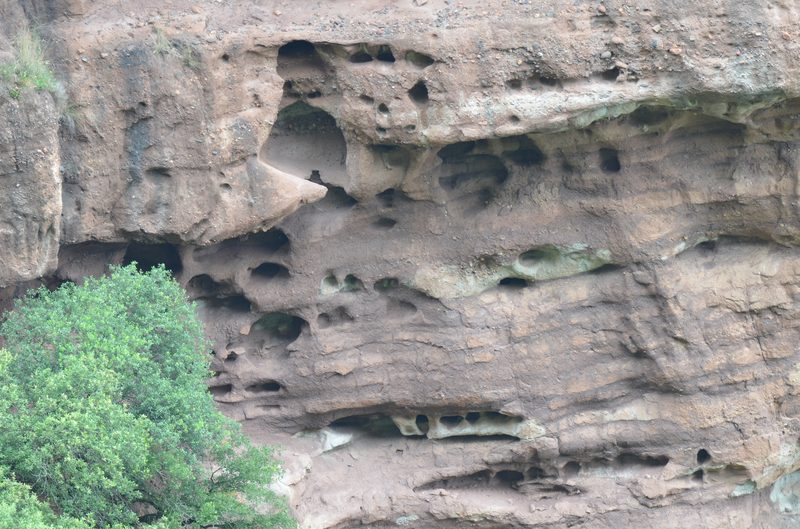
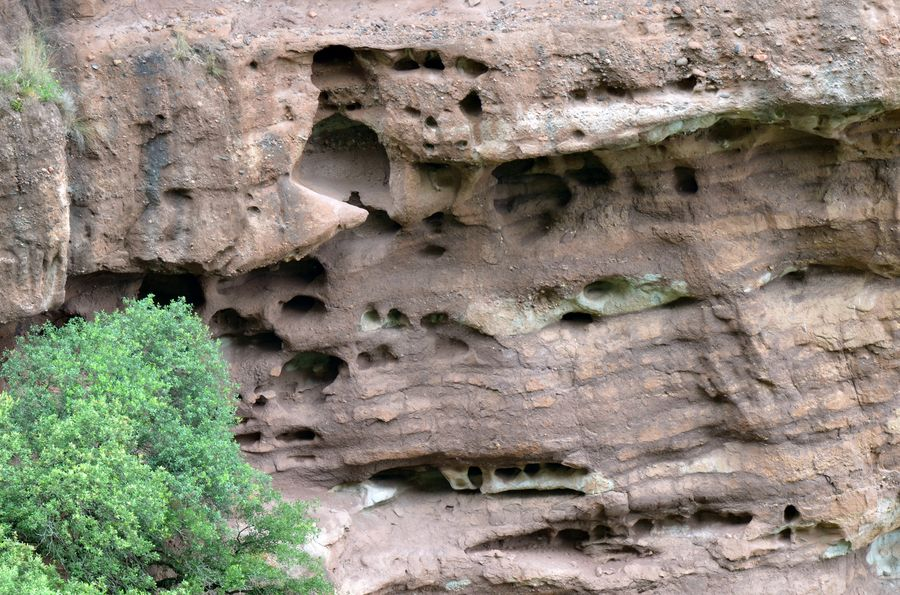
Afegeix fotos i figures de geologia i geobotànica a les parades P4, P5 i P6, i el camí de pujada P4–P5.
Inclou les capçaleres noves, les miniatures ampliables dels materials del camí i una graella de figures als modals.

diff --git a/src/content.config.ts b/src/content.config.ts
@@ -11,6 +11,7 @@ const modalContentSchema = (image: (path: string) => z.ZodType) =>
         publicSrc: z.string(),
         alt: z.string(),
         caption: z.string().optional(),
+        compact: z.boolean().optional(),
         tipus: z.enum(["animacio", "video"]).default("animacio"),
       })
       .optional(),
@@ -61,6 +62,8 @@ const modalContentSchema = (image: (path: string) => z.ZodType) =>
           mediaCaption: z.string().optional(),
           /** Títol de figura sobre un grup `mediaItems` (peu de figura a `mediaCaption`) */
           mediaTitle: z.string().optional(),
+          /** graella de miniatures ampliables; per defecte, una sota l'altra */
+          mediaLayout: z.enum(["stack", "grid"]).optional(),
           /** Índex del paràgraf (0-based) després del qual inserir `media` */
           mediaAfterParagraph: z.number().int().nonnegative().optional(),
           /** Índex de la subsecció (0-based) després de la qual inserir `mediaItems` */
@@ -394,6 +397,7 @@ const parades = defineCollection({
                 modalLabel: z.string().optional(),
                 resum: z.string().optional(),
                 intro: z.string().optional(),
+                introMedia: modalContentSchema(image).shape.introMedia,
                 sections: modalContentSchema(image).shape.sections,
               }),
             )

diff --git a/src/data/sau-tavertet-parades.ts b/src/data/sau-tavertet-parades.ts
@@ -38,12 +38,14 @@ export const SAU_TAVERTET_PARADES: SauTavertetParada[] = [
     num: 4,
     slug: "I1-P4",
     label: "Dipòsits de vessant (Quaternari)",
+    preview: "/images/parades/I1-P4-hover.jpg",
     svgIds: ["I1-P4", "P4", "Parada4"],
   },
   {
     num: 5,
     slug: "I1-P5",
     label: "Gresos i conglomerats vermells, Formació Vilanova de Sau",
+    preview: "/images/parades/I1-P5-hover.jpg",
     svgIds: ["I1-P5", "P5", "Parada5"],
   },
   {

diff --git a/src/content/parades/I1-P5.md b/src/content/parades/I1-P5.md
@@ -3,6 +3,11 @@ title: "P5. Gresos i conglomerats vermells, Formació Vilanova de Sau"
 itinerari: "sau-tavertet"
 ordre: 5
 coordenades: "451630,8 E / 4648435,6 N (ETRS89 UTM 31N)"
+media:
+  tipus: foto
+  foto:
+    url: "/src/images/parades/I1-P5/01-P5-inici.jpg"
+    alt: "Aflorament de gresos i conglomerats vermells de la Formació Vilanova de Sau, amb bosc i relleu al fons — Parada 5"
 geologia:
   resum: "Materials continentals dipositats en un sistema de ventalls al·luvials, abans de l'entrada progressiva del mar eocè."
   parts:
@@ -12,11 +17,24 @@ geologia:
         La parada se situa a la Formació Vilanova de Sau, una unitat sedimentària continental formada durant l'Eocè. Hi predominen els gresos i els conglomerats vermells, amb intercalacions de lutites. Aquesta combinació de materials mostra que el sediment es va acumular en un medi amb una energia variable.
 
         Els gresos estan formats per grans de sorra compactats i cimentats. Els conglomerats contenen graves i còdols que van ser transportats per corrents d'aigua amb capacitat per mobilitzar materials més grossos. Les lutites, en canvi, corresponen a períodes de menor energia, quan s'acumulaven fangs i partícules fines.
-
-        Respecte de la Formació Mediona, observada a la parada 3, aquí augmenta la proporció de gresos i conglomerats. Aquest canvi indica una major influència dels processos de transport fluvial i al·luvial, o bé una sedimentació en sectors més propers als relleus que aportaven els materials.
-
-        La Formació Vilanova de Sau s'interpreta com el registre de sectors mitjans a distals d'un sistema de ventalls al·luvials. Els sediments procedien de relleus situats al marge de la conca i eren redistribuïts per canals temporals, riuades i episodis d'escorrentia.
+      introMedia:
+        title: "Figura 1. Gresos i conglomerats vermells de la Formació Vilanova de Sau: matriu sorrenca rogenca amb còdols de composició i mida diverses, transportats per corrents d'energia variable."
+        publicSrc: "/images/parades/I1-P5/geologia/P5-geo-fig1-gresos-conglomerats.jpg"
+        alt: "Gresos i conglomerats vermells amb còdols dispersos a la parada 5"
+        caption: "Fotografia: elaboració pròpia, parada 5."
+        compact: true
       sections:
+        - title: ""
+          paragraphs:
+            - "Respecte de la Formació Mediona, observada a la parada 3, aquí augmenta la proporció de gresos i conglomerats. Aquest canvi indica una major influència dels processos de transport fluvial i al·luvial, o bé una sedimentació en sectors més propers als relleus que aportaven els materials."
+            - "La Formació Vilanova de Sau s'interpreta com el registre de sectors mitjans a distals d'un sistema de ventalls al·luvials. Els sediments procedien de relleus situats al marge de la conca i eren redistribuïts per canals temporals, riuades i episodis d'escorrentia."
+          mediaAfterParagraph: 1
+          media:
+            title: "Figura 2. Aflorament de gresos i conglomerats vermells de la Formació Vilanova de Sau: superfície d'estratificació amb textura grollera, típica de sediments redistribuïts en ventalls al·luvials."
+            publicSrc: "/images/parades/I1-P5/geologia/P5-geo-fig2-ventall-alluvial.jpg"
+            alt: "Aflorament inclinat de gresos i conglomerats vermells de la parada 5, amb vegetació a la coronació"
+            caption: "Fotografia: elaboració pròpia, parada 5."
+            compact: true
         - title: "Per observar al camp"
           paragraphs:
             - "• Capes de gres vermell o rogenc."
@@ -31,10 +49,26 @@ geologia:
           paragraphs:
             - "El color vermellós és una característica molt visible de la Formació Vilanova de Sau. S'explica principalment per la presència d'òxids de ferro que tenyeixen els grans minerals i el ciment de les roques."
             - "Aquesta coloració és habitual en sediments dipositats o modificats en condicions oxidants, pròpies d'ambients continentals amb disponibilitat d'oxigen. Per tant, és un indicador útil d'un paisatge terrestre, tot i que el color per si sol sempre s'ha d'interpretar conjuntament amb la textura i l'estructura de la roca."
+          mediaAfterParagraph: 1
+          media:
+            title: "Figura 3. Coloració vermellosa dels gresos i conglomerats de la Formació Vilanova de Sau: els òxids de ferro tenyeixen la matriu i el ciment en condicions oxidants d'un ambient continental."
+            publicSrc: "/images/parades/I1-P5/geologia/P5-geo-fig3-color-vermell.jpg"
+            alt: "Superfície de gresos i conglomerats vermells de la parada 5, amb còdols i vegetació al voltant"
+            caption: "Fotografia: elaboració pròpia, parada 5."
+            compact: true
+        - title: ""
+          paragraphs:
             - "Dins la successió geològica local, la Formació Vilanova de Sau se situa per sobre de la Formació Mediona —i, localment, de la Formació Orpí— i per sota de la Formació Romagats, també formada per materials detrítics vermells."
             - "La seqüència mostra una evolució dins d'un mateix domini continental: des de lutites i argiles més fines a la Formació Mediona fins a materials més sorrencs i conglomeràtics a la Formació Vilanova de Sau i, posteriorment, a conglomerats més gruixuts de la Formació Romagats."
             - "Per damunt d'aquest conjunt continental apareixen les roques marines de la Formació Tavertet. El contrast entre els sediments vermells de P5 i les roques més clares que formen els cingles ajuda a reconèixer un canvi ambiental de gran escala: dels sistemes continentals de ventalls al·luvials a la progressiva entrada del mar eocè."
             - "Connexió amb la parada següent: la parada 6 mostra la Formació Romagats, on els conglomerats són més abundants. Això indica una sedimentació continental més proximal, associada a ventalls al·luvials propers a les àrees d'origen dels sediments."
+          mediaAfterParagraph: 2
+          media:
+            title: "Figura 4. Contrast entre els sediments vermells continentals (Formació Vilanova de Sau) i les roques clares dels cingles marins de la Formació Tavertet: un canvi d'ambient de gran escala."
+            publicSrc: "/images/parades/I1-P5/geologia/P5-geo-fig4-cingles-tavertet.jpg"
+            alt: "Cinglera amb materials vermells a la base i calcàries clares de la Formació Tavertet al capdamunt"
+            caption: "Fotografia: elaboració pròpia, parada 5."
+            compact: true
 mapaUrl: "/images/parades/I1-P5/mapa-parada-p5.png"
 mapaLabel: "Mapa"
 mapaDescripcio: "Mapa geològic de la parada 5 (P5–P6–P9–P10)"
@@ -44,10 +78,6 @@ analisiFlora:
   resum: "El relleu dels cingles i els gresos de Vilanova de Sau generen un mosaic de microhàbitats, de vegetació rupícola a boscos de muntanya mitjana."
   paragraphs:
     - "La vegetació observada en aquesta parada està fortament condicionada pel relleu dels cingles, la naturalesa del substrat geològic i les diferències locals d'humitat i insolació. La combinació de parets rocoses, replans estructurals, peus de cingle i vessants forestats origina un mosaic de microhàbitats que afavoreix la coexistència de comunitats vegetals molt diverses."
-    - "Els materials detrítics de la Formació Vilanova de Sau, constituïts principalment per gresos i conglomerats continentals, són relativament erosionables i permeten localment l'acumulació de sòl. En aquests sectors es desenvolupa una cobertura vegetal més contínua que sobre els afloraments rocosos resistents que formen el front del cingle. En canvi, als replans i escarpes rocoses la disponibilitat de sòl és molt limitada i la vegetació queda restringida a fissures, petites depressions i superfícies on s'acumulen sediments fins."
-    - "L'orientació i la geometria de la cinglera generen contrastos ambientals marcats. Els sectors exposats directament al sol presenten temperatures més elevades i una disponibilitat hídrica més reduïda, mentre que els espais ombrívols, els fondals i les concavitats conserven la humitat durant més temps. Aquesta variabilitat explica la presència simultània de comunitats mediterrànies i de muntanya mitjana dins d'un espai relativament reduït."
-    - "Als sectors més secs poden aparèixer joncedes, prats secs, boixedes amb savina i vegetació rupícola adaptada a la manca de sòl. En canvi, a les zones més protegides i amb una major acumulació edàfica es desenvolupen rouredes de roure martinenc, avellanoses i, als sectors més humits del Collsacabra, fagedes. Aquesta distribució posa de manifest la relació directa entre geologia, relleu, disponibilitat de sòl i estructura de la vegetació."
-    - "Les comunitats vegetals presents als cingles constitueixen un bon exemple d'adaptació als ambients rocosos. Les espècies que hi viuen han de tolerar sòls molt prims, una marcada variabilitat hídrica i una elevada exposició al vent. El boix (Buxus sempervirens) i la savina (Juniperus phoenicea) són alguns dels elements arbustius característics dels replans calcaris i de les franges de transició entre la roca nua i les àrees forestals."
   contextGeologic: "Gresos i conglomerats vermells de la Formació Vilanova de Sau (Eocè), amb contrast entre materials detrítics erosionables i nivells rocosos més resistents de la cinglera."
   posicioRelleu: "Front de cinglera obert cap a la vall de Sau: parets verticals, replans, peus de cingle i vessants forestats."
   orientacioMicroclima: "Insolació molt contrastada: sectors assolellats més càlids i secs; fondals, concavitats i peus de paret amb més ombra i humitat."
@@ -64,8 +94,27 @@ analisiFlora:
   relacioFloraRelleu: "El pendent, l'exposició i la geometria del cingle determinen el mosaic entre comunitats mediterrànies i de muntanya mitjana."
   observacionsEcologiques: "Els usos tradicionals (conreu i pastura) i el mapa d'usos del sòl mostren un entorn predominantment forestal; les comunitats rupícoles ocupen franges estretes difícils de cartografiar."
   images:
+    - url: "/src/images/parades/I1-P5/geobotanica/P5-4-bot.jpg"
+      compact: true
+      alt: "Planta arbustiva arrelada en una fissura dels gresos vermells, parada 5"
+      title: "Figura G1. Vegetació discontínua sobre gresos vermells: una planta arrelada en una fissura on s'acumula sòl fi i fullaraca."
+      caption: "Fotografia: elaboració pròpia, parada 5."
+    - textBefore: "Els materials detrítics de la Formació Vilanova de Sau, constituïts principalment per gresos i conglomerats continentals, són relativament erosionables i permeten localment l'acumulació de sòl. En aquests sectors es desenvolupa una cobertura vegetal més contínua que sobre els afloraments rocosos resistents que formen el front del cingle. En canvi, als replans i escarpes rocoses la disponibilitat de sòl és molt limitada i la vegetació queda restringida a fissures, petites depressions i superfícies on s'acumulen sediments fins."
+    - textBefore: "L'orientació i la geometria de la cinglera generen contrastos ambientals marcats. Els sectors exposats directament al sol presenten temperatures més elevades i una disponibilitat hídrica més reduïda, mentre que els espais ombrívols, els fondals i les concavitats conserven la humitat durant més temps. Aquesta variabilitat explica la presència simultània de comunitats mediterrànies i de muntanya mitjana dins d'un espai relativament reduït."
+      url: "/src/images/parades/I1-P5/geobotanica/P5-bota-g2-exposicio.jpg"
+      compact: true
+      alt: "Cinglera amb gresos vermells i calcàries clares, bosc al peu i contrast d'ombra i insolació a la parada 5"
+      title: "Figura G2. Geometria de la cinglera i contrastos d'exposició: vessant forestal ombrívol al peu i parets rocoses més assolellades, amb comunitats diferents en pocs metres."
+      caption: "Fotografia: elaboració pròpia, parada 5."
+    - textBefore: "Als sectors més secs poden aparèixer joncedes, prats secs, boixedes amb savina i vegetació rupícola adaptada a la manca de sòl. En canvi, a les zones més protegides i amb una major acumulació edàfica es desenvolupen rouredes de roure martinenc, avellanoses i, als sectors més humits del Collsacabra, fagedes. Aquesta distribució posa de manifest la relació directa entre geologia, relleu, disponibilitat de sòl i estructura de la vegetació."
+      url: "/src/images/parades/I1-P5/geobotanica/P5-bota2.jpg"
+      compact: true
+      alt: "Aflorament de gresos vermells amb vegetació discontínua i bosc dens al marge, parada 5"
+      title: "Figura G3. Contrast entre l'aflorament de gresos vermells —sòl molt prim i vegetació herbàcia i arbustiva discontínua— i el bosc dens on el relleu i l'acumulació edàfica permeten una coberta arbòria contínua."
+      caption: "Fotografia: elaboració pròpia, parada 5."
+    - textBefore: "Les comunitats vegetals presents als cingles constitueixen un bon exemple d'adaptació als ambients rocosos. Les espècies que hi viuen han de tolerar sòls molt prims, una marcada variabilitat hídrica i una elevada exposició al vent. El boix (Buxus sempervirens) i la savina (Juniperus phoenicea) són alguns dels elements arbustius característics dels replans calcaris i de les franges de transició entre la roca nua i les àrees forestals."
     - url: "/src/images/parades/I1-P5/geobotanica/P5-bota-g3-usos-sol.jpg"
       alt: "Mapa d'usos del sòl i cobertes vegetals a l'entorn de la parada 5"
-      title: "Figura G3. Usos del sòl i cobertes vegetals a l'entorn de la parada 5, Formació Vilanova de Sau. El cercle vermell delimita aproximadament l'àmbit de l'aflorament. Predominen les cobertes forestals, amb presència de boscos caducifolis i esclerofil·les; els prats, matollars i conreus ocupen sectors puntuals més accessibles o amb menor pendent."
+      title: "Figura G4. Usos del sòl i cobertes vegetals a l'entorn de la parada 5, Formació Vilanova de Sau. El cercle vermell delimita aproximadament l'àmbit de l'aflorament. Predominen les cobertes forestals, amb presència de boscos caducifolis i esclerofil·les; els prats, matollars i conreus ocupen sectors puntuals més accessibles o amb menor pendent."
       caption: "Elaboració pròpia a partir de la cartografia d'usos del sòl."
 ---

diff --git a/src/content/parades/I1-P4.md b/src/content/parades/I1-P4.md
@@ -3,6 +3,11 @@ title: "P4. Dipòsits de vessant (Quaternari)"
 itinerari: "sau-tavertet"
 ordre: 4
 coordenades: "451127,3 E / 4647526,8 N (ETRS89 UTM 31N)"
+media:
+  tipus: foto
+  foto:
+    url: "/src/images/parades/I1-P4/01-P4-inici.jpg"
+    alt: "Cinglera amb materials vermells i capçalera clara sobre bosc dens — Parada 4"
 geologia:
   resum: "Materials recents acumulats al peu dels vessants, que mostren que el relleu de Sau–Tavertet continua evolucionant."
 
@@ -24,6 +29,13 @@ geologia:
             - "• Clasts sovint angulosos o poc arrodonits, indicadors d'un transport relativament curt."
             - "• Blocs de mida mètrica acumulats al peu dels cingles."
             - "A diferència de moltes roques sedimentàries paleògenes de l'itinerari, aquests dipòsits no solen formar capes contínues i regulars. Són acumulacions heterogènies, produïdes per processos de vessant i modificades localment per l'aigua."
+          mediaAfterParagraph: 5
+          media:
+            title: "Figura 1. Acumulació heterogènia de dipòsit de vessant: fragments de mida, forma i composició diverses en una matriu sorrenca, sense capes contínues."
+            publicSrc: "/images/parades/I1-P4/geologia/P4-geo-fig1-diposit-heterogeni.jpg"
+            alt: "Detall d'un dipòsit de vessant amb clasts de mides i colors diversos en matriu vermellosa, parada 4"
+            caption: "Fotografia: elaboració pròpia, parada 4."
+            compact: true
         - title: "Per observar al camp"
           paragraphs:
             - "• La gran variabilitat de mida entre blocs, graves, sorres i materials fins."
@@ -39,6 +51,44 @@ geologia:
             - "Els cingles actuals són el resultat de milions d'anys de meteorització, erosió i despreniments. Aquests processos, però, no formen part només del passat: continuen actuant avui, normalment de manera lenta i poc visible. Els dipòsits de vessant en són una evidència directa."
             - "Petits despreniments, moviments superficials de terra i l'erosió causada per l'aigua transfereixen materials des de les parts altes fins a la base dels vessants. Els dipòsits poden quedar parcialment recoberts per vegetació, de manera que no sempre són evidents a primera vista."
             - "Des del punt de vista ecològic, aquests materials poden donar lloc a sòls més profunds que els que es formen sobre roca nua. La presència de fraccions fines, matèria orgànica i aigua retinguda pot facilitar l'establiment de comunitats arbustives i forestals. En canvi, a les parets rocoses i a les fissures dels cingles, les plantes han de viure amb un sòl molt prim, discontinu i sovint sec."
+        - title: ""
+          paragraphs:
+            - "Entre la P4 i la P5 el camí puja entre dipòsits de vessant."
+          mediaLayout: grid
+          mediaTitle: "Figures 2 i 3. Camí de pujada entre la parada 4 i la 5."
+          mediaCaption: "Fotografia: elaboració pròpia."
+          mediaItems:
+            - publicSrc: "/images/parades/I1-P4/geologia/P4-geo-fig2-cami.jpg"
+              alt: "Camí forestal amb fullaraca i fragments de roca, entre la P4 i la P5"
+            - publicSrc: "/images/parades/I1-P4/geologia/P4-geo-fig3-cami.jpg"
+              alt: "Camí de pujada amb materials solts al terra, entre la P4 i la P5"
+        - title: ""
+          paragraphs:
+            - "Durant la pujada s'observen fragments despresos: gresos, roques metamòrfiques, margues amb fòssils i altres materials baixats de més amunt."
+          mediaLayout: grid
+          mediaTitle: "Figura 4. Materials despresos al camí: gresos, metamòrfiques, margues amb fòssils i altres fragments."
+          mediaCaption: "Fotografia: elaboració pròpia, camí P4–P5. Clic per ampliar."
+          mediaItems:
+            - publicSrc: "/images/parades/I1-P4/geologia/P4-geo-cami-01.jpg"
+              alt: "Fragment metamòrfic fosc en matriu sorrenca vermella"
+            - publicSrc: "/images/parades/I1-P4/geologia/P4-geo-cami-02.jpg"
+              alt: "Margues amb fòssils"
+            - publicSrc: "/images/parades/I1-P4/geologia/P4-geo-cami-03.jpg"
+              alt: "Fragments de mides i colors diversos al camí"
+            - publicSrc: "/images/parades/I1-P4/geologia/P4-geo-cami-04.jpg"
+              alt: "Superfície amb clasts diversos en matriu sorrenca"
+            - publicSrc: "/images/parades/I1-P4/geologia/P4-geo-cami-05.jpg"
+              alt: "Gresos i fragment metamòrfic verdós al camí"
+            - publicSrc: "/images/parades/I1-P4/geologia/P4-geo-cami-06.jpg"
+              alt: "Gresos vermells i fragments grisos amb fullaraca"
+            - publicSrc: "/images/parades/I1-P4/geologia/P4-geo-cami-10.jpg"
+              alt: "Dipòsit heterogeni de fragments en matriu vermellosa"
+            - publicSrc: "/images/parades/I1-P4/geologia/P4-geo-cami-07.jpg"
+              alt: "Clast pigallat entre fullaraca"
+            - publicSrc: "/images/parades/I1-P4/geologia/P4-geo-cami-08.jpg"
+              alt: "Materials solts del camí, amb escala"
+            - publicSrc: "/images/parades/I1-P4/geologia/P4-geo-cami-09.jpg"
+              alt: "Escletxa amb fragments despresos"
 mapaUrl: "/images/parades/I1-P4/mapa-parada-p4.png"
 mapaLabel: "Mapa"
 mapaDescripcio: "Mapa geològic de la parada 4 (Dipòsits de vessant, Quaternari), amb la parada 3 al mateix sector"

diff --git a/src/content/parades/I1-P6.md b/src/content/parades/I1-P6.md
@@ -7,10 +7,10 @@ media:
   tipus: foto
   foto:
     url: "/src/images/parades/I1-P6/01-P6-portada.jpg"
-    alt: "Cinglera de conglomerats vermells de la Formació Romagats, amb cavitats d'erosió — Parada 6"
+    alt: "Cinglera de conglomerats vermells de la Formació Romagats, amb cavitats d'erosió i vegetació al peu — Parada 6"
 fotos:
   - url: "/src/images/parades/I1-P6/01-P6-portada.jpg"
-    alt: "Cinglera de conglomerats vermells de la Formació Romagats, amb cavitats d'erosió al llarg dels estrats. Elaboració pròpia."
+    alt: "Cinglera de conglomerats vermells de la Formació Romagats, amb cavitats d'erosió al llarg dels estrats i vegetació al peu. Elaboració pròpia."
   - url: "/src/images/parades/I1-P6/02-P6-aflorament-cinglera.jpg"
     alt: "Aflorament vertical de conglomerats i gresos vermells amb erosió diferencial. Elaboració pròpia."
   - url: "/src/images/parades/I1-P6/03-P6-conglomerat-retolador.jpg"
